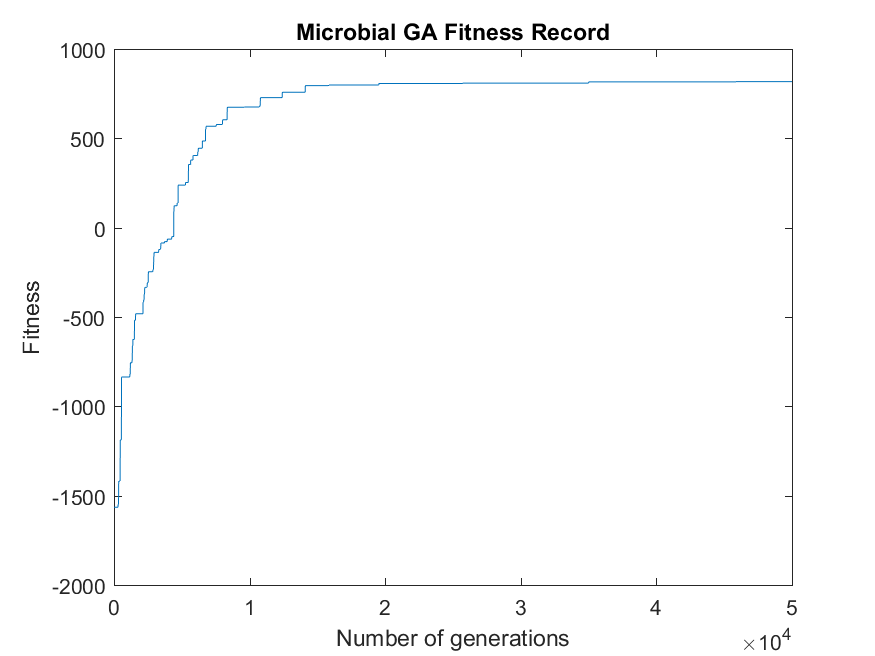
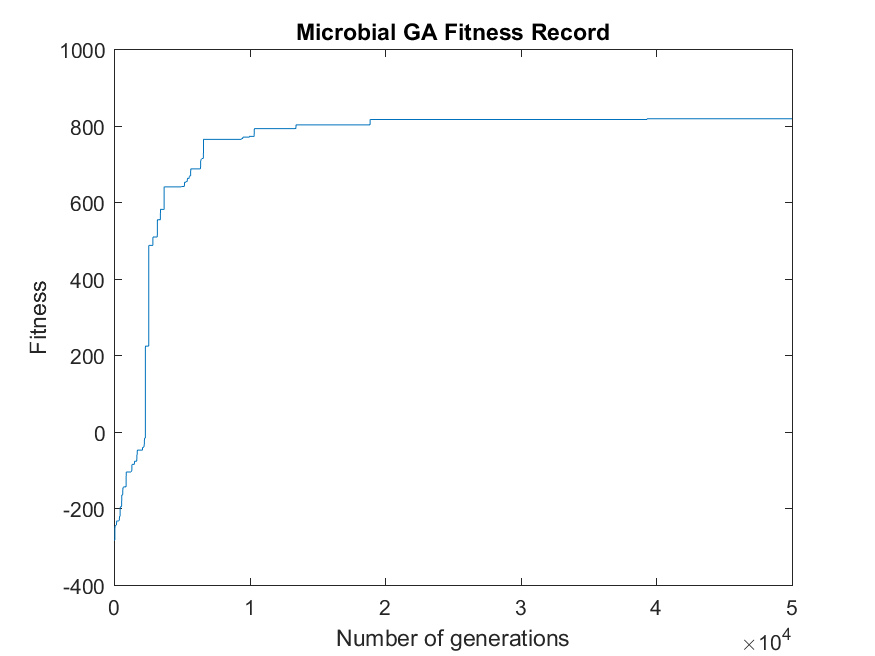
Update Fitness function to penalise Larger volumes more

diff --git a/AIAB/Lab4/Task3.m b/AIAB/Lab4/Task3.m
@@ -28,7 +28,7 @@ function [winner,winnerInd,fitRec,popGens] = Task3(B,V,maxVol,pop,gen,local,cros
     %Fitness Function mark 2
     popVol = popGens*V';
     legal = popVol<=maxVol;
-    popFits = ((popGens*B').*legal) - ((popGens*B')-maxVol).*(1-legal);
+    popFits = ((popGens*B').*legal) - ((popGens*V')-maxVol).*(1-legal);
 
 
     mutRate = 1/length(B);  % mutation rate ** Low enough so that on average
@@ -78,7 +78,7 @@ function [winner,winnerInd,fitRec,popGens] = Task3(B,V,maxVol,pop,gen,local,cros
         %Fitness Function mark 2
         popVol(l) = popGens(l,:)*V';
         legal = popVol(l)<=maxVol;
-        popFits(l) = (popGens(l,:)*B'.*legal) - ((popGens(l,:)*B')-maxVol).*(1-legal);
+        popFits(l) = (popGens(l,:)*B'.*legal) - ((popGens(l,:)*V')-maxVol).*(1-legal);
 
         % Update fitness record
         fitRec(:,g) = popFits;

diff --git a/AIAB/GeneticAlgorithmsReport/fitness.m b/AIAB/GeneticAlgorithmsReport/fitness.m
@@ -1,6 +1,7 @@
 function [fitness,volume] = fitness(MAX_VOLUME, B, V,popGens)
-
+  
   volume = popGens*V'; % Calculate the volume of each phenotype
-  legal = (volume<=MAX_VOLUME)*2-1;
-  fitness = popGens*B'.*legal;
+  legal = volume<=MAX_VOLUME;
+  fitness = ((popGens*B').*legal) - ((popGens*V')-MAX_VOLUME).*(1-legal);
+
 end

diff --git a/AIAB/Lab4/fitness.m b/AIAB/Lab4/fitness.m
@@ -1,6 +1,7 @@
 function [fitness,volume] = fitness(MAX_VOLUME, B, V,popGens)
 
   volume = popGens*V'; % Calculate the volume of each phenotype
-  legal = (volume<=MAX_VOLUME)*2-1;
-  fitness = popGens*B'.*legal;
+  legal = volume<=MAX_VOLUME;
+  fitness = ((popGens*B').*legal) - ((popGens*V')-MAX_VOL).*(1-legal);
+
 end

diff --git a/AIAB/Lab4/Lab4.m b/AIAB/Lab4/Lab4.m
@@ -53,6 +53,7 @@ save('Lab4_task2_solutions.mat','task2solutions');
 % % %   Task 3
 % % %
 
+gen = 10000
 local = 5;
 cross = 0.5;
 [winner,winnerInd,fitRec,popGens] = Task3(B,V,Max_Volume,pop,gen,local,cross);
